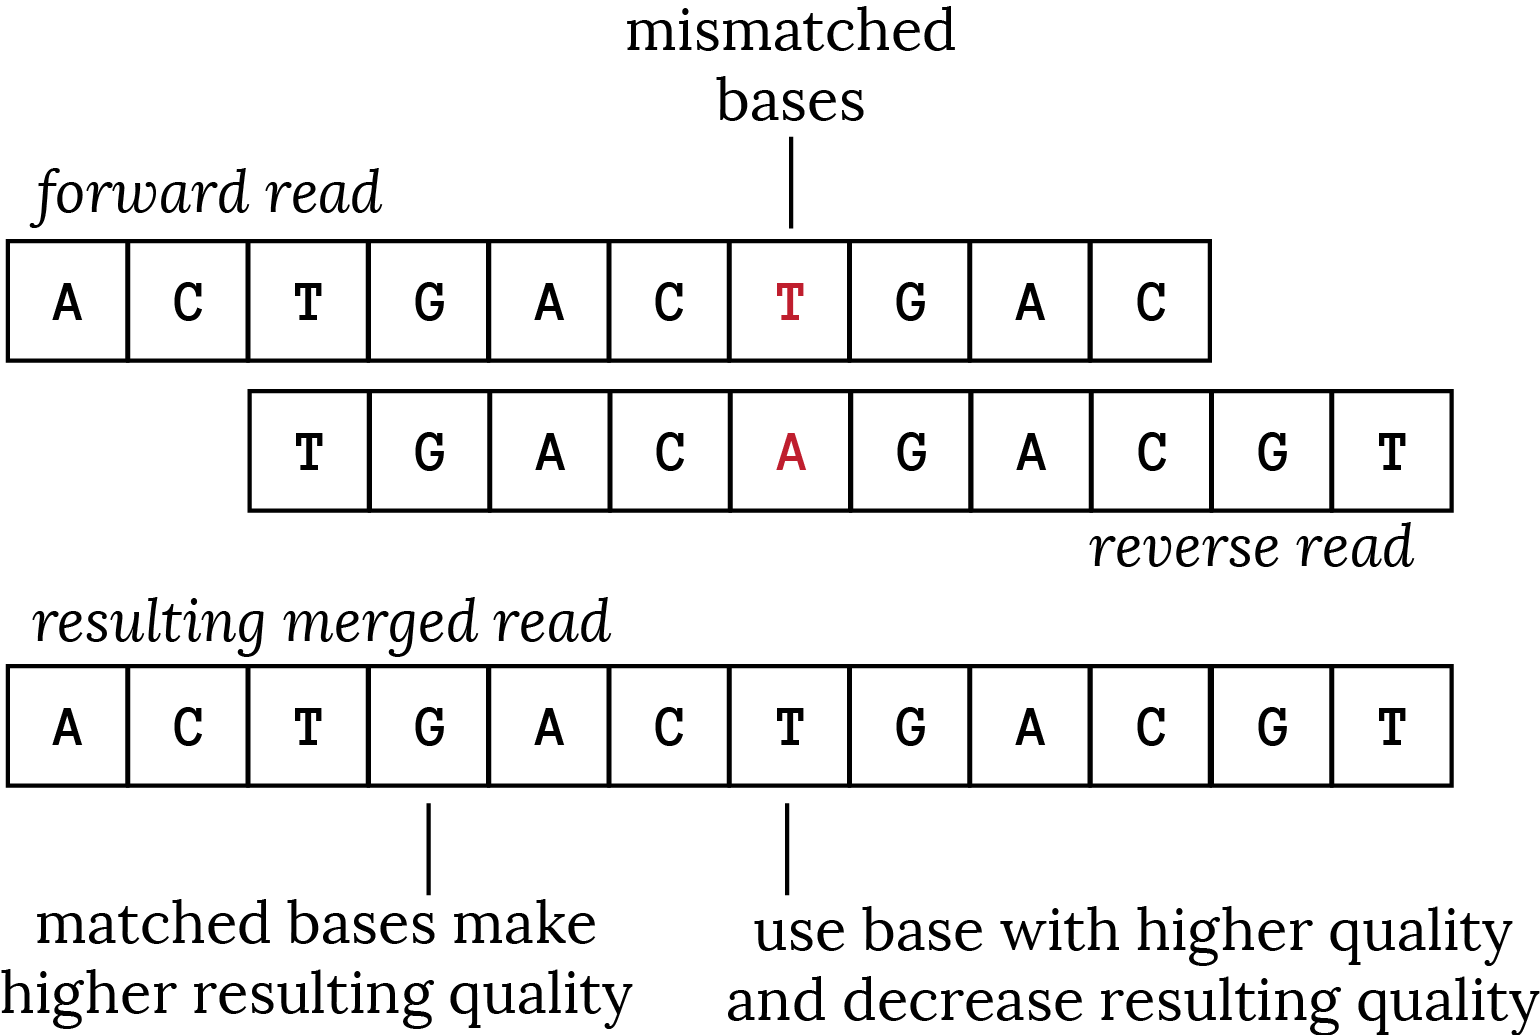
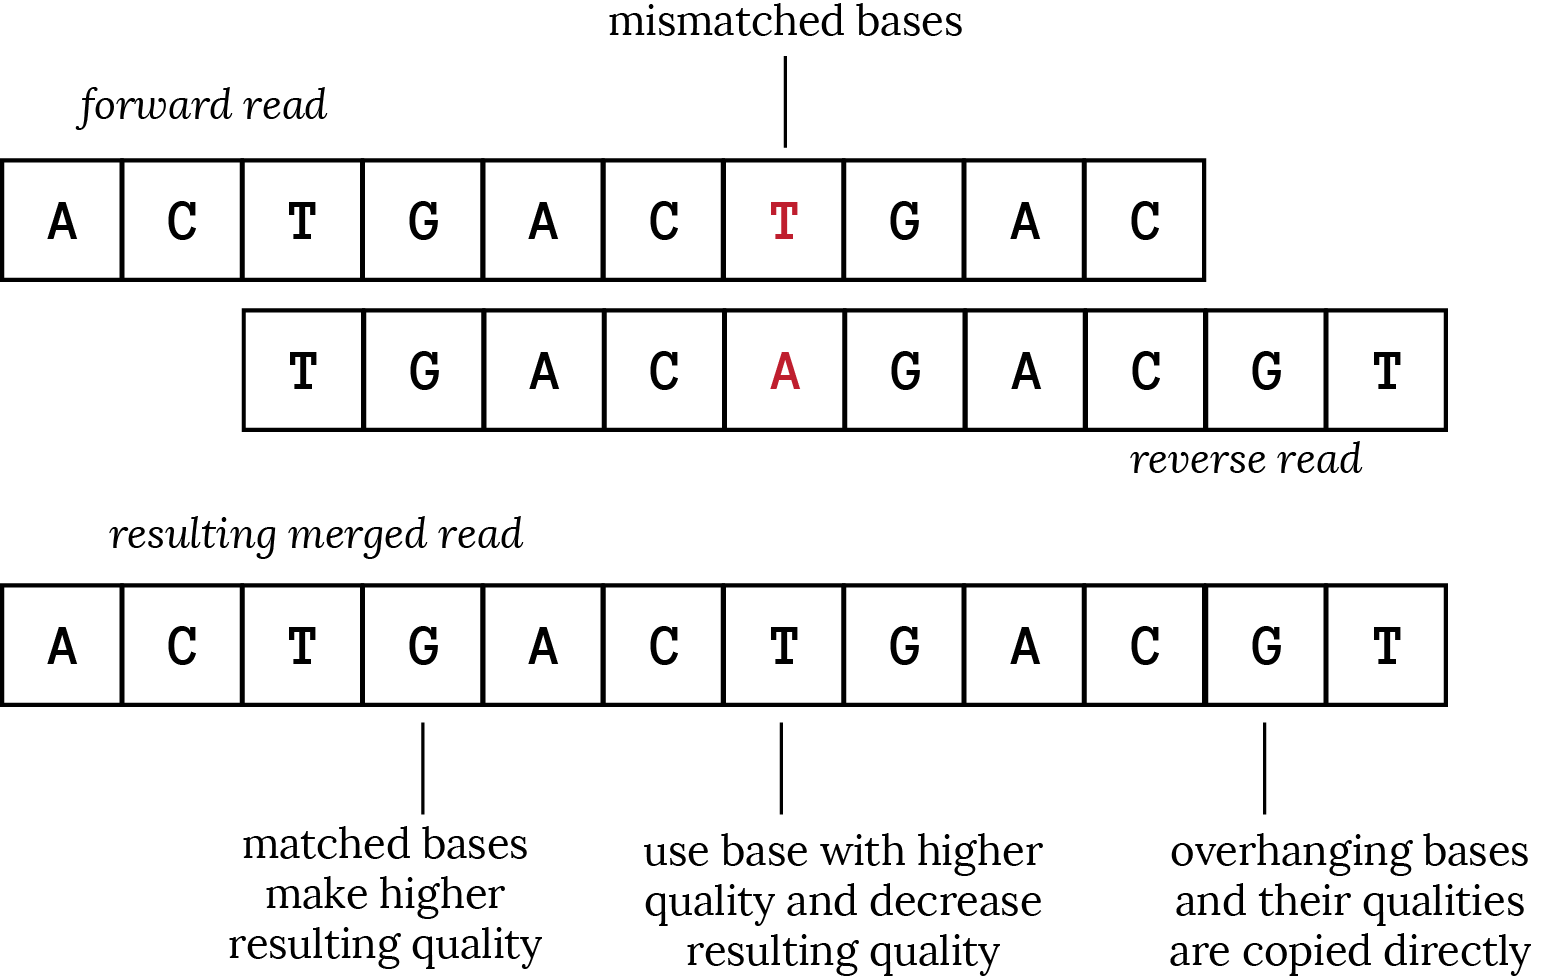
almost through sec03

Changed region(s): [[0.0, 0.0, 1.0, 1.0], [0.0312, 0.0922, 0.2182, 0.123]]

diff --git a/manuscript/sec03.md b/manuscript/sec03.md
@@ -6,13 +6,33 @@ Hooray, you have sequence data! Now what? I'll assume you did paired-end sequenc
 
 Before trying to process your dataset, be sure you have the following raw data[^3] and metadata:
 
-- *Forward reads*. For Illumina, this means a *fastq* file that might have a name like `130423Alm_D13-1939_1_sequence.fastq`. Giveaways that this is a forward read are something like `_1_` or `_R1_` in the filename. The first line of the file should also end with `/1`. For example, the first line of the file I have is `@MISEQ578:1:1101:15129:1752#CCGACA/1`.
-- *Reverse reads* (unless you did single-end sequencing). A fastq file with a name like the forward reads only with `_2_` or `_R2_` in it. The first line in the file should end with `/2`, indicating that it's the second read of a pair. Every entry in the reverse reads should match an entry in the forward reads. In most cases, the two pairs of a read appear in analogous places in the two files (i.e., the forward read entry starting on line $x$ in the forward read file corresponds to the reverse read starting on line $x$ in the reverse reads file).
+- *Forward reads*. For Illumina, this means a *fastq* file that might have a name like:
+~~~~~~~~
+130423Alm_D13-1939_1_sequence.fastq
+~~~~~~~~
+Giveaways that this is a forward read are something like `_1_` or `_R1_` in the
+filename. The first line of the file should also end with `/1`. For example, the
+first line of the file I have is:
+~~~~~~~~
+`@MISEQ578:1:1101:15129:1752#CCGACA/1`.
+~~~~~~~~
+- *Reverse reads* (unless you did single-end sequencing). A fastq file with a
+name like the forward reads only with `_2_` or `_R2_` in it. The first line in
+the file should end with `/2`, indicating that it's the second read of a pair.
+Every entry in the reverse reads should match an entry in the forward reads. In
+most cases, the two pairs of a read appear in analogous places in the two files
+(i.e., the forward read entry starting on line *x* in the forward read file
+corresponds to the reverse read starting on line *x* in the reverse reads file).
 - *Barcode* or *index reads*. Depending on your Illumina version, this information might be in different places. In some datasets, it's in the file with the forward reads. In the above example line, the barcode read is `CCGACA` (between the `#` and the `/1`). In other datasets, you might find the index reads in a file with a name that has `_R3_`, `_I_`, or `_I1_` in it.
 - *Barcode map*. Information about what barcode goes with what sample. A common gotcha in 16S data processing is that the barcode map might have barcodes that are reverse complements of what are in the samples.
 - *Primer sequences*. The sequences of the primers used in the 16S amplification. They might also be the reverse complement of what's in the data.
 
-If you download a dataset or get it from a collaborator, it might come in an already-processed format. Depending on your purposes, it might be fine to use that data, which will look similar to something we'll get a little further down this pipeline.
+If you download a dataset or get it from a collaborator, it might come in an
+already-processed format. Depending on your purposes, it might be fine to use
+that data, which will look similar to something we'll get a little further down
+this pipeline. In general, however, it's very useful to ask for or search for
+this entire list of things when you're starting to analyze a data set from
+scratch.
 
 ## Overview of the processing pipeline
 
@@ -24,14 +44,28 @@ This is the practical, devoid-of-theory step in which you get (*a*) the data you
 
 ### Phase I
 
-These steps take the raw data and turn it into biologically relevant stuff. There is some freedom about the order in which they can be done.
+These steps take the raw data and turn it into biologically relevant stuff.
+There is some freedom about the order in which they can be done. Broadly, they
+try to turn the sequencing data into something that is biologically meaningful.
 
 - *Removing* (or "trimming") *primers*. The primers are a man-made thing. If there was a mismatch between the primer and the DNA of interest, you'll only see the primer. We therefore chop it off.
-- *Quality filter* (or "trim") reads. For every nucleotide in every read, the sequencer gives some indication of its assuredness that that base is the thing it says it is. This assuredness is called *quality*: if a base has high quality, you can be sure that it is that nucleotide. If it has low quality, you should be more skeptical. In general, reads tend to decrease in quality as they extend, meaning that we get less sure that the sequence is correct the further away from the primer we go. Some reads also have overall low quality.[^4] Quality filtering removes sequences or parts of sequences that we think we cannot trust.
-- *Merging* (or "overlapping" or "assembling" or "stitching") read pairs. When doing paired-end sequencing, it's desirable for the two reads in the pair to overlap in the middle. This produces a single full-length read whose quality in the middle positions is hopefully greater than the quality of either of the two reads that produced it (). There's no such thing as "merging" for single-end sequencing.
+- *Quality filter* (or "trim") reads. For every nucleotide in every read, the
+sequencer gives some indication of its assuredness that that base is the thing
+it says it is. This assuredness is called *quality*: if a base has high quality,
+you can be sure that that base was called correctly. If it has low quality, you should be
+more skeptical. In general, reads tend to decrease in quality as they extend,
+meaning that we get less sure that the sequence is correct the further away from
+the primer we go. Some reads also have overall low quality.[^4] Quality
+filtering removes sequences or parts of sequences that we think we cannot trust.
+- *Merging* (or "overlapping" or "assembling" or "stitching") read pairs. When
+doing paired-end sequencing, it's desirable for the two reads in the pair to
+overlap in the middle. This produces a single full-length read whose quality in
+the middle positions is hopefully greater than the quality of either of the two
+reads that produced it. There's no such thing as "merging" for single-end
+sequencing.
 - *Demultiplexing* (or "splitting"). The man-made barcode sequences are replaced by the names of the samples the sequences came from.
 
-![**Merging aligns reads, makes a new sequence, and computes new quality scores.** When two bases match, the new quality can be higher than either of the original qualities. When bases don't match, we use the base with the better quality, but we have to reduce that base's quality. Overhanging bases and their qualities are copied right into the merged sequence.](images/merge-quality.png)
+![Merging aligns reads, makes a new sequence, and computes new quality scores.[^merge]](images/merge-quality.png)
 
 ### Phase II
 
@@ -40,7 +74,9 @@ These steps compact the data and make it easier to work with when calling OTUs. 
 - *Dereplicating*. There are fewer *sequences* (strings of `ACGT`) than there are *reads*. This step identifies the set of unique sequences, which is usually much smaller than the number of reads.
 - *Provenancing* (or "mapping" or "indexing"). How many reads of each sequence were in each sample? (Only I call it "provenancing"[^3]. I find all the other names I've heard confusing.)
 
-[^3] In archaeology, an artifact's _provenance_ is the place within the archaeological
+[^merge]: I adapted this figure from the `usearch` manual's [website](http://drive5.com/usearch/manual/merge_pair.html).
+
+[^3]: In archaeology, an artifact's _provenance_ is the place within the archaeological
 site where it was found.
 
 ### Phase III: OTU calling
@@ -62,41 +98,98 @@ In an ideal world, this is straightforward: you find the piece of your
 read that matches the forward primer, and you pop it off. Repeat for the
 reverse read. In practice, there are two important considerations:
 
-- Where do you look for the primer? Does the primer start at the very first nucleotide of the read, or a little further in? You can put a lot of flexibility in this step without a lot of negative effects, but it's good to know what's going on in your data.
-- What does "match" mean? How many mismatched nucleotides do you allow between the read and your primer sequence before you consider the read "bad"? In practice, it's common to only keep reads that have at most one error in the primer match.
-
-### Quality filter
-
-For some people, "trim" is synonymous with "quality filter", but trimming is only one of two common ways to quality filter:
-
-- Trimming means truncating your reads at some nucleotide after which the sequence is "bad". A common approach is to truncate everything after the first nucleotides whose quality falls below some threshold.
-- Global quality filtering means discarding an entire read if the average quality of the read is too low. Maybe no individual nucleotide falls below your trim threshold, but the general poor quality of the read means that you'd rather not include it in analysis. This criterion is expressed equivalently as "average quality" or "expected number of errors". I like to throw out reads that have more than two expected errors.
-
-Note that it makes sense to trim before you merge, but it doesn't make sense to global quality filter before you merge. I work with paired-end reads, so I do global quality filtering as my very last step in Phase I.
+- *Where do you look for the primer?* Does the primer start at the very first
+nucleotide of the read, or a little further in? You can put a lot of flexibility
+in this step without a lot of negative effects, but it's good to know what's
+going on in your data.
+- *What does "match" mean?* How many mismatched nucleotides do you allow between the
+read and your primer sequence before you consider the read "bad"? In practice,
+it's common to only keep reads that have at most one error in the primer match.
 
 ### Merging
 
 Merging is the most complex part of the pre-OTU-calling steps. Merging requires you to:
 
-- Find the "best" position for merging. Evern in amplicon sequencing, there are insertions and deletions in the 16S variable regions, so we can't be sure that all merged reads will be the exactly the same length.
-- Decide if the "best" position is good enough. If you have two reads that don't overlap at all, should you even include it in the downstream analysis?[^5] How good is good enough?
-- Compute the quality of the nucleotides in the merged read using the qualities in the original reads. This requires some basic Bayesian statistics. It's not super-hard, but it was hard enough to be the subject of (among others) a [2010 Alm Lab paper](http://dx.doi.org/10.1371/journal.pone.0011840) and a [2015 paper](http://dx.doi.org/10.1093/bioinformatics/btv401) from the maker of `usearch`.
+- *Find the "best" position for merging.* If you were sure all your amplicons are
+exactly the same size, then this is trivial: just overlap them at the right length.
+However, even in amplicon sequencing, there are
+insertions and deletions in the 16S variable regions, so we can't be sure that
+all merged reads will be the exactly the same length.
+- *Decide if the "best" position is good enough.* If you have two reads that don't
+overlap at all, should you even include it in the downstream analysis?[^5] How
+good is good enough?
+- *Compute the quality of the nucleotides in the merged read using the qualities in
+the original reads.* This requires some basic Bayesian statistics. It's not
+super-hard, but it was hard enough to be the subject of (among others) a [2010
+Alm Lab paper](http://dx.doi.org/10.1371/journal.pone.0011840) and a [2015
+paper](http://dx.doi.org/10.1093/bioinformatics/btv401) from the maker of
+`usearch`.
 
-I think it's worth noting that most people use `usearch`, which will come up later, to
-merge their sequences. 
+I think it's worth noting that `usearch`, which will come up later, is a very
+popular tool for merging sequences.
+
+### Quality filter
+
+Why do you need to quality filter? Some of the reads that come off the
+sequencer are bad. Sequences tend to vary in overall quality (some good, some bad)
+and the number of bases they have that are good. Inherent in the Illumina technology is
+a trend for sequences to decrease in quality as you move down the sequence.
+The sequencer will give you a sort of quality report about your sequences' average
+quality. It will give you a sense of whether your sequencing run as a whole was
+good, and it will give you a sense of whether you got the sort of good-quality
+length you were hoping for.
+
+![quality.png](An read quality report delivered by the Illumina software.)
+
+There are two common ways to quality filter:
+
+- *Quality trimming* means truncating your reads at some nucleotide after which the sequence
+is "bad". A common approach is to truncate everything after the first
+nucleotides whose quality falls below some threshold.
+- *Global quality filtering* means discarding an entire read if the average quality
+of the read is too low. Maybe no individual nucleotide falls below your trim
+threshold, but the general poor quality of the read means that you'd rather not
+include it in analysis. This criterion is expressed equivalently as "average
+quality" or "expected number of errors".[^flyv] When I work with 250 bp amplicons,
+I like to throw out reads that have more than two expected errors.
+
+[^flyv]: There's a nice paper by [Edgar & Flyvbjerg](http://dx.doi.org/10.1093/bioinformatics/btv401)
+(doi:10.1093/bioinformatics/btv401) that shows how to compute this.
+
+It makes sense to merge then global quality filter or to quality trim then merge.
+It does not make sense to merge then quality trim. I worked with paired-end reads,
+so I do global quality filtering as my very last Phase I step.
+
+Confusingly, "trimming" also refers to a different process when, if you're doing
+unpaired amplicon sequencing, you pick a length, discard all reads shorter than
+that, and truncate all the longer sequences at that length. (You do this for
+reasons that might become clearer in the OTU calling section.)
 
 ### Demultiplexing
 
 This step is similar to primer removal:
 
-- Which of the known barcodes is the best match for this barcode read? That's a pretty straightforward answer. (What if there's a tie, you say? Barcodes are chosen with an error-correcting code so that a tie implies that you have at least two errors in the read. Read on.)
-- Is the match with the known barcode good enough? A common approach is to throw away reads whose barcode read has more than one error.
+- *Which of the known barcodes is the best match for this barcode read?* That's a
+pretty straightforward answer. (What if there's a tie, you say? Barcodes are
+chosen with an error-correcting code so that a tie implies that you have at
+least two errors in the read. Read on.)
 
-### Dereplicating and provenancing
+- *Is the match with the known barcode good enough?* A common approach is to throw
+away reads whose barcode read has more than one error.
+
+### Dereplicating, denoising, and provenancing
 
 Provenancing is simple: you just look through the list of unique sequences (i.e., the dereplicated reads) and the list of all reads, counting up how many times each sequence appears in each sample. Dereplication has one practical question associated with it:
 
-- How many times does a sequence have to appear for me to believe it? There is a whole literature about "denoising" reads, essentially inferring which reads are the result of sequencing error and which ones are real sequences from rare bacteria. In most data sets, there is a "long tail" of sequences: there are a few abundant sequences and many rare sequences. It's common to simply drop sequences that appear only once in the data set. This is a hack that does some simple denoising and reduces the size of the resulting data.
+- *How many times does a sequence have to appear for me to believe it?* There is a
+whole literature about "denoising" reads, essentially inferring which reads are
+the result of sequencing error and which ones are real sequences from rare
+bacteria. In most data sets, there is a "long tail" of sequences: there are a
+few abundant sequences and many rare sequences. It's common to simply drop
+sequences that appear only once in the data set. This is a hack that does some
+simple denoising and reduces the size of the resulting data.
+
+***something about denoising***
 
 ### Chimera removal (or "slaying")
 

diff --git a/manuscript/sec02.md b/manuscript/sec02.md
@@ -162,14 +162,24 @@ In contrast, multiplexing adds a barcode or "tag" to the 16S amplicon. Each barc
 - *Negative controls*: Usually just vehicle with no DNA, as a way to check for contamination from reagents or poor sample preparation.
 - *Positive controls*: Mock communities of known composition, which can be used to check that the sequencing was not "weird". If you have a lot of samples from the same project and you need to run them in more than one lane, you can use the positive controls as an internal check that sequencing proceeded similarly across lanes.
 
-The bioinformatic cost of multiplexing is that the reads must be *demultiplexed* in the analysis stage. This is not very difficult.
+The bioinformatic cost of multiplexing is that the reads must be *demultiplexed*
+in the analysis stage. This is easy.
 
 ## Sequencing
 
-A little more work has to be done before putting the sample in the sequencer. These steps will depend on the sequencing platform. Here I'll talk about Illumina because it's popular and I have experience with it.
+A little more work has to be done before putting the sample in the sequencer.
+These steps will depend on the sequencing platform. Here I'll talk about
+Illumina because it's popular and I have experience with it. If you're using
+a different sequencing platform, then you'll need to learn about the quirks
+of that platform elsewhere.
 
 Samples to be sequenced on an Illumina machine need to have Illumina-specific *adapters* added in another PCR. These adapters allow the DNA amplicons to bind the flowcell where they are sequenced. It is sometimes also desirable to have a *diversity region* added between the adapter and the 16S primer. The Illumina sequencers expect to see a diversity of nucleotides at every read position. In amplicon sequencing, almost all the reads are the same through the primer region, which freaks out the sequencer. A diversity region is just some random nucleotides that helps the sequencer do its job. In our lab we use `YRYR`, where `Y` means `T` or `C` and `R` means `G` or `A`.
 
-All of these pieces --the 16S region you're interested in, forward and reverse primers, barcodes, diversity region, and Illumina adapters-- are all made into a single *PCR construct*, which is a single piece of DNA. The sequencer reads the nucleotides in the construct and uses its knowledge about the arrangement of the construct to infer which nucleotides are the region of interest and which are the barcode.
+All of these pieces ---the 16S region you're interested in, forward and reverse
+primers, barcodes, diversity region, and Illumina adapters--- are all made into
+a single *PCR construct*, which is a single piece of DNA. The sequencer reads
+the nucleotides in the construct and uses its knowledge about the arrangement of
+the construct to infer which nucleotides are the region of interest and which
+are the barcode.
 
 ![An example PCR construct.](images/pcr-construct.png)
